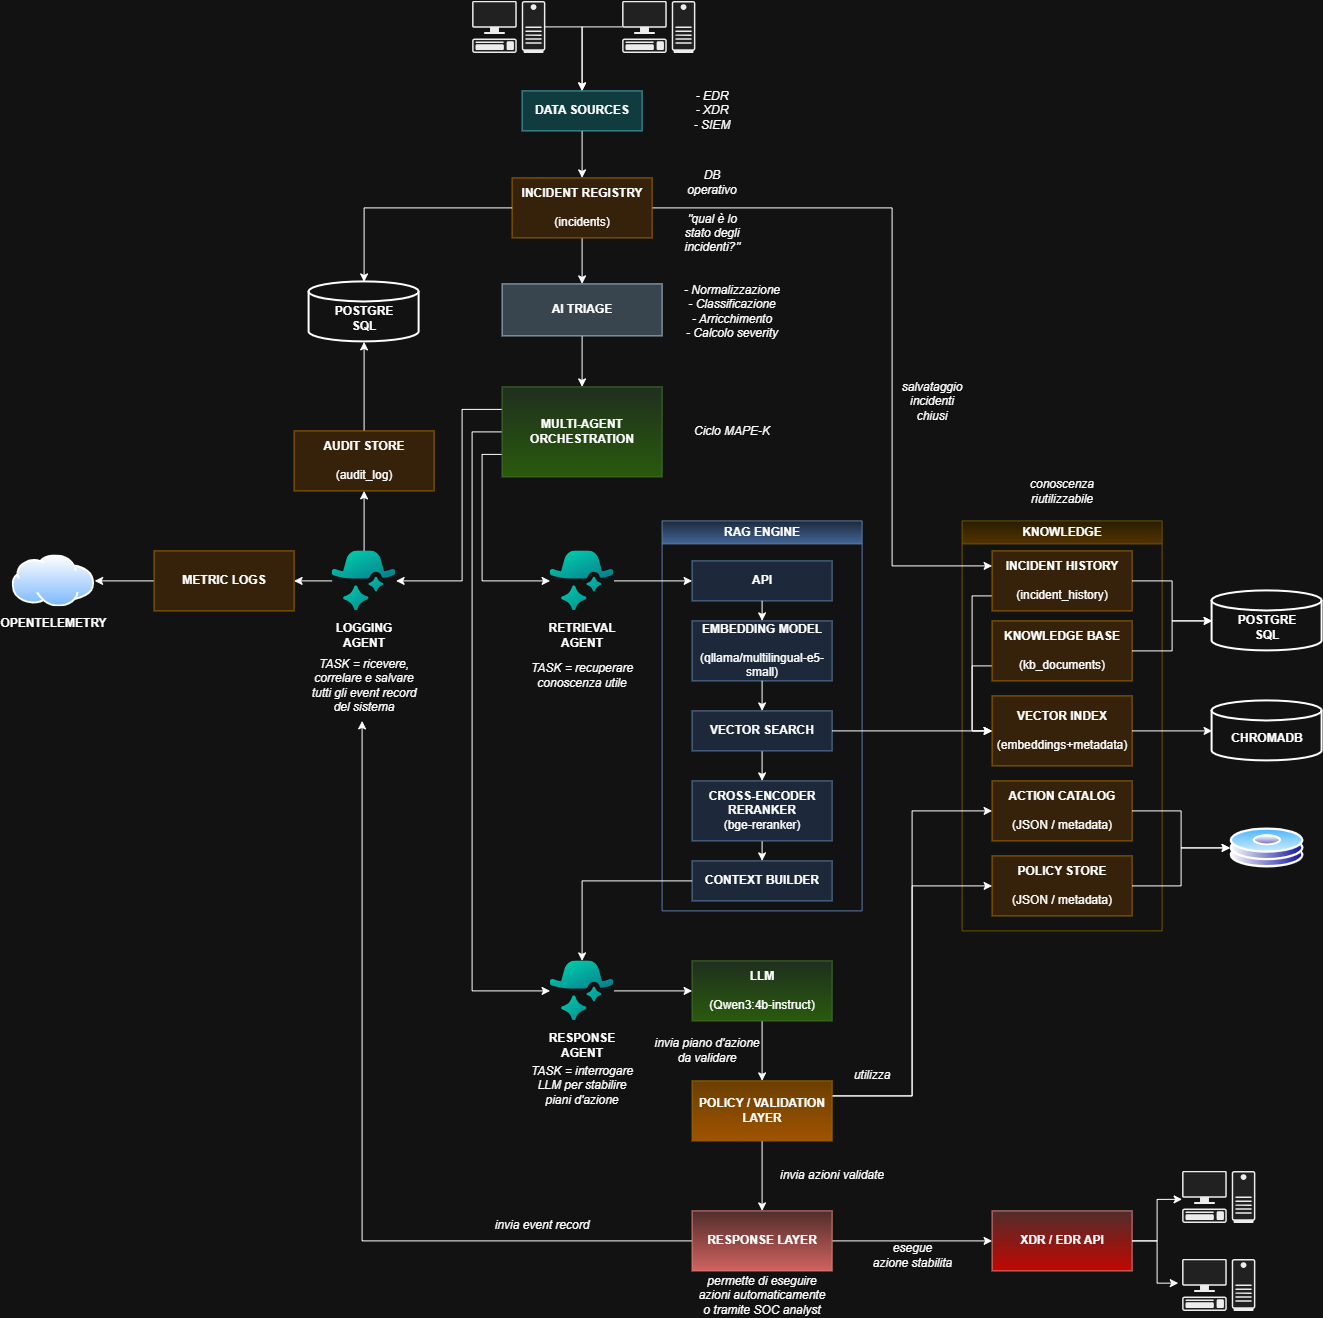
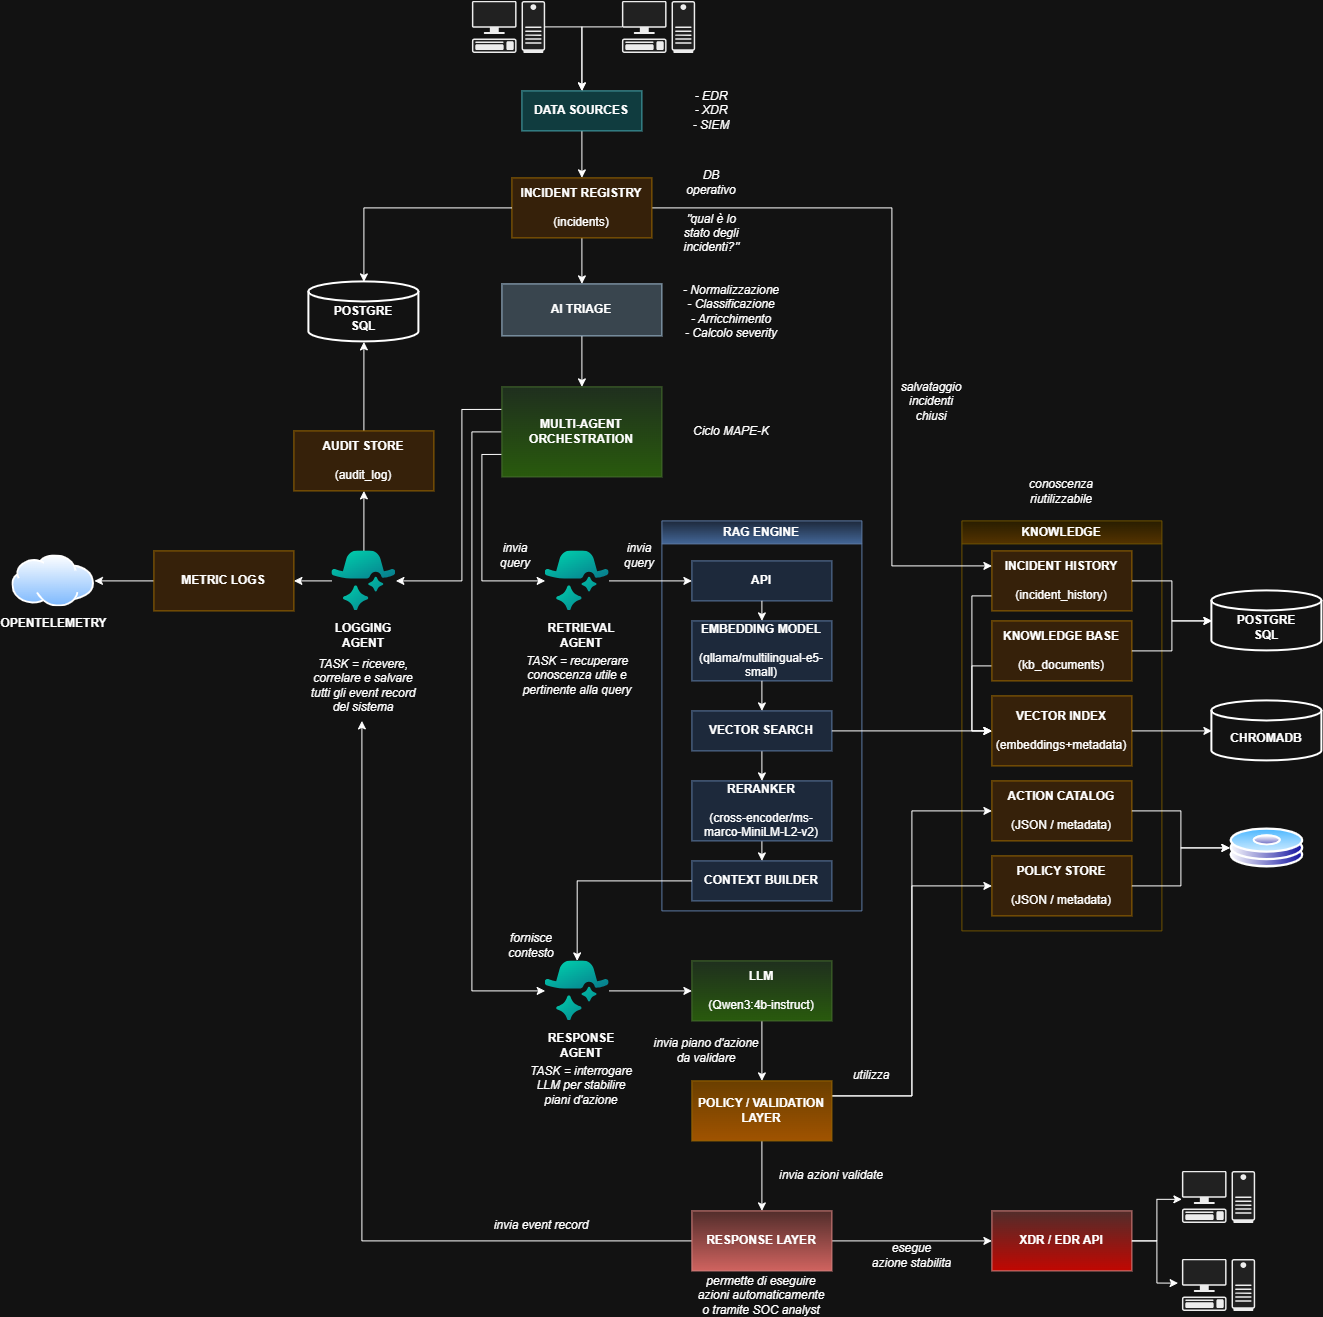
rag completed

diff --git a/RAG/retrieve_agent.py b/RAG/retrieve_agent.py
@@ -3,16 +3,14 @@ import logging
 import sys
 from typing import Any, Dict
 from . import config
-from .api import query_rag
+from .context_builder import build_context
 from .incident_registry import IncidentRegistry
 
 logger = logging.getLogger(__name__)
 
 class RetrieveAgent:
 
-    def __init__(self, model: str = config.CHAT_MODEL, host: str = config.OLLAMA_HOST, top_k: int = config.TOP_K, registry: IncidentRegistry = None):
-        self.model = model
-        self.host = host
+    def __init__(self, top_k: int = config.TOP_K, registry: IncidentRegistry = None):
         self.top_k = top_k
         self.logger = logger
         self.registry = registry or IncidentRegistry()
@@ -44,48 +42,37 @@ class RetrieveAgent:
 
         return str(incident)
 
-    def retrieve(self, incident_or_query: Any, warmup: bool = True, incident_id: int = None) -> Dict[str, Any]:
+    def retrieve(self, incident_or_query: Any, incident_id: int = None) -> Dict[str, Any]:
 
         q = self._incident_to_query(incident_or_query)
         try:
-            result = query_rag(q, model=self.model, host=self.host, warmup=warmup, incident_id=incident_id)
+            context = build_context(q, top_k=self.top_k)
             try:
                 self.registry.log_action(
                     incident_id,
                     agent="retrieve_agent",
                     action="retrieved_context",
-                    details={"query": q, "context": result.get("context")},
+                    details={"query": q, "context": context},
                 )
             except Exception:
                 self.logger.exception("Failed to log retrieve_agent action to the incident registry")
-            return {"query": q, "result": result}
+            return {"query": q, "context": context}
         except Exception as exc:
             self.logger.exception("Retrieve failed")
             return {"query": q, "error": str(exc)}
-
-    def summarize(self, incident_or_query: Any, warmup: bool = True, incident_id: int = None) -> Dict[str, Any]:
-
-        payload = self.retrieve(incident_or_query, warmup=warmup, incident_id=incident_id)
-        if "result" not in payload:
-            return payload
-
-        res = payload["result"]
-        return {
-            "query": payload.get("query"),
-            "context": res.get("context"),
-            "answer": res.get("answer"),
-            "model": res.get("model"),
-        }
 
 
 if __name__ == "__main__":
     import logging as _logging
 
     _logging.basicConfig(level=_logging.INFO)
+    for lib in ("httpx", "sentence_transformers", "transformers", "urllib3", "chromadb"):
+        _logging.getLogger(lib).setLevel(_logging.WARNING)
+
     agent = RetrieveAgent()
     if len(sys.argv) > 1:
         q = " ".join(sys.argv[1:])
     else:
         q = input("Incident or query: ")
-    out = agent.summarize(q, warmup=True)
+    out = agent.retrieve(q)
     print(json.dumps(out, indent=2, ensure_ascii=False))

diff --git a/RAG/api.py b/RAG/api.py
@@ -1,6 +1,6 @@
 from typing import Any, Dict
 from . import config
-from .context_builder import build_context
+from .retrieve_agent import RetrieveAgent
 from .response_agent import ResponseAgent
 
 class RAGService:
@@ -8,10 +8,11 @@ class RAGService:
     def __init__(self, model: str = config.CHAT_MODEL, host: str = config.OLLAMA_HOST):
         self.model = model
         self.host = host
+        self.retrieve_agent = RetrieveAgent()
         self.response_agent = ResponseAgent(model=model, host=host)
 
     def query(self, question: str, warmup: bool = True, incident_id: int = None) -> Dict[str, Any]:
-        context = build_context(question)
+        context = self.retrieve_agent.retrieve(question, incident_id=incident_id).get("context")
         answer = self.response_agent.ask(question, context=context, incident_id=incident_id)
 
         return {

diff --git a/RAG/rag_chat.py b/RAG/rag_chat.py
@@ -1,7 +1,7 @@
-from .response_agent import ResponseAgent
+from .api import query_rag
 
 def ask(question: str) -> str:
-    return ResponseAgent().ask(question)
+    return query_rag(question)["answer"]
 
 def main():
     print("RAG chat - type 'exit' to quit.\n")

diff --git a/python/main.py b/python/main.py
@@ -73,7 +73,7 @@ while True:
         })
 
     except KeyboardInterrupt:
-        print("\n\Hi!")
+        print("\nHi!")
         break
 
     except Exception as e:

diff --git a/README.md b/README.md
@@ -57,8 +57,12 @@ Il sistema RAG vive in `RAG/` e legge/scrive dati sotto `knowledge/` (montato ne
 - Costruisci/aggiorna l'indice vettoriale (persistito in `knowledge/indices/`):
   `docker exec -it python-app python -m RAG.build_index`
 
-- Test reranker:
-  - `docker exec python-app python -c "from RAG.context_builder import build_context; print(build_context('How can PowerShell be used for execution?'))"`
-  
-- Avvia la chat con retrieval-augmented generation. Prima del prompt interattivo il modello viene riscaldato automaticamente:
-  `docker exec -it python-app python -m RAG.rag_chat`
+- Test del solo **Retrieve Agent** (recupero contesto da ChromaDB + reranker, senza LLM):
+  `docker exec -it python-app python -m RAG.retrieve_agent "How can PowerShell be used for execution?"`
+
+- Test del solo **Response Agent** (generazione con Qwen fornendo un contesto):
+  `docker exec python-app python -c "from RAG.response_agent import ResponseAgent; print(ResponseAgent().ask('Come isolare un host?', context='Policy: Isolare via EDR API in caso di malware.'))"`
+
+- Test del **flusso completo** (Retrieve Agent + Response Agent):
+  - Singola query: `docker exec python-app python -c "from RAG.api import query_rag; print(query_rag('How can PowerShell be used for execution?'))"`
+  - Chat interattiva: `docker exec -it python-app python -m RAG.rag_chat`
